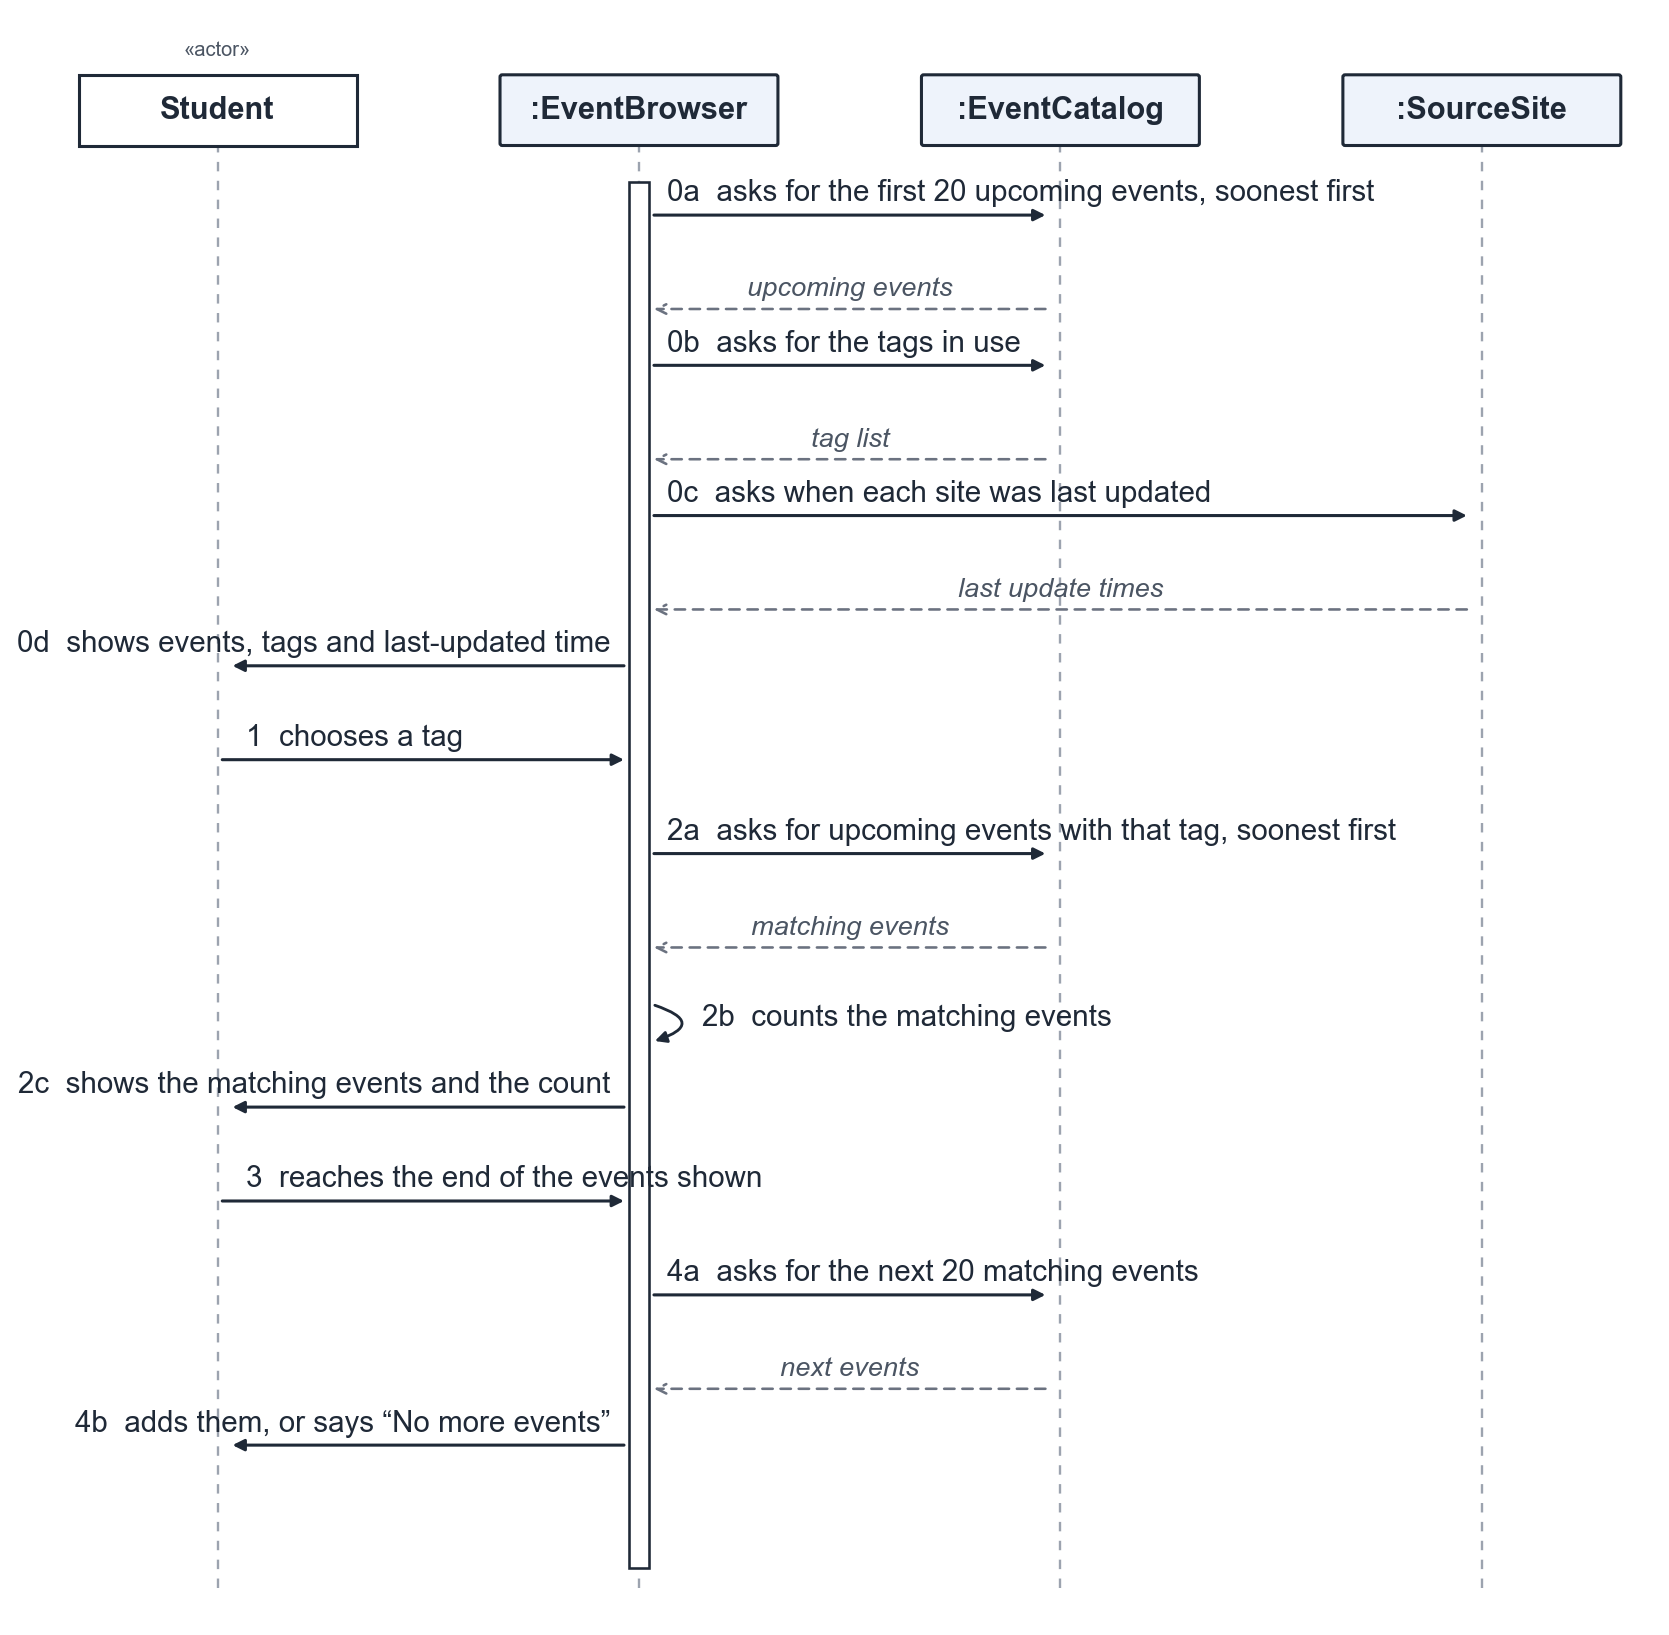
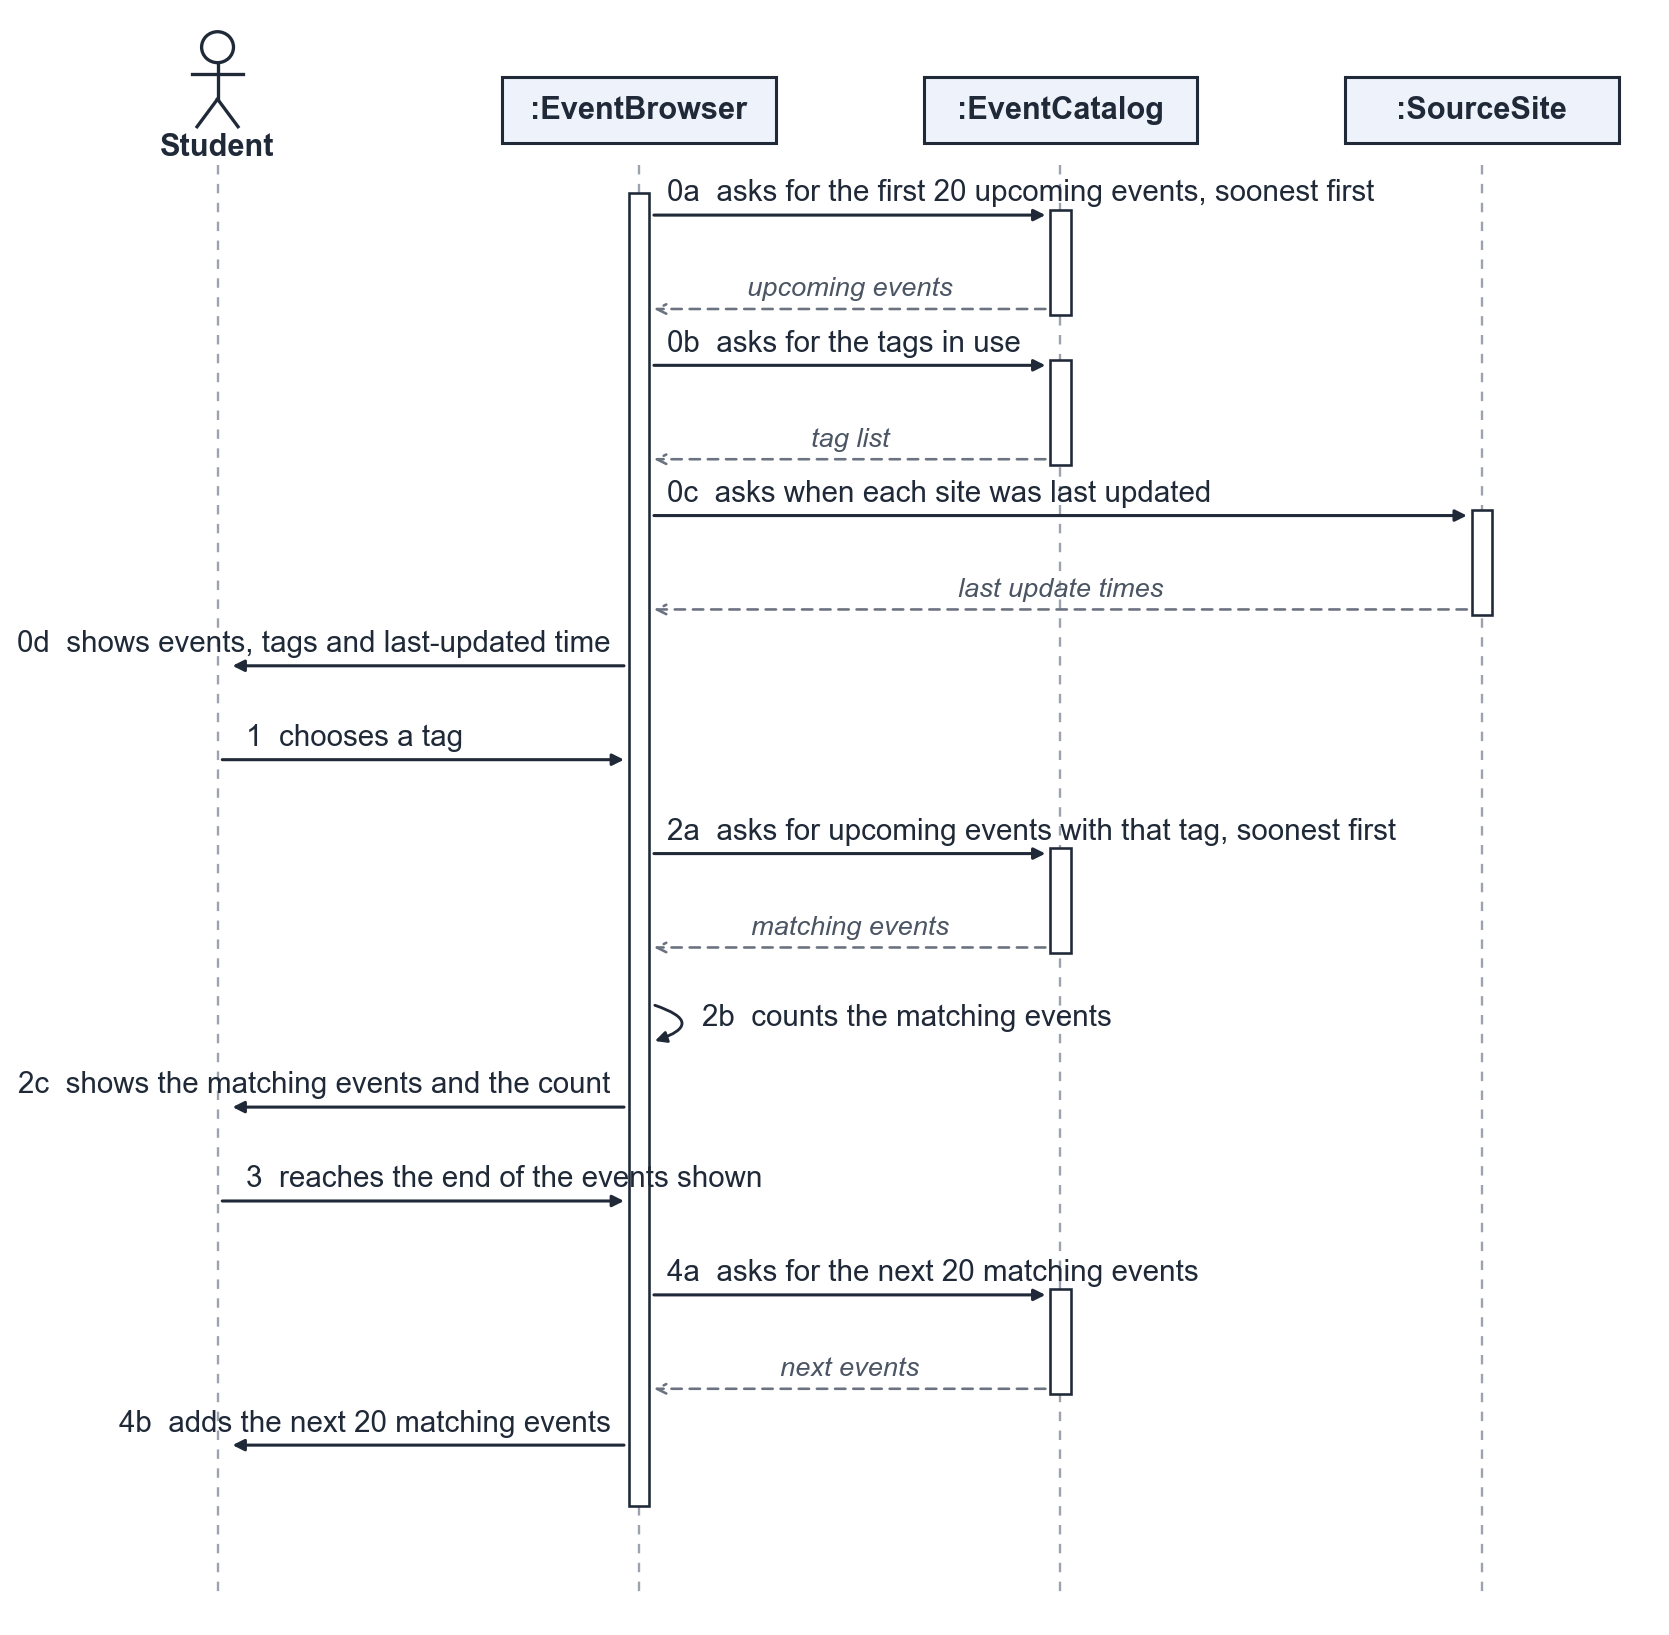
docs(p2): sequence diagrams follow lecture notation
Stick-figure actors, activation bars on called objects, controller bar
broken between the two visits in UC-02, and message 4b of UC-01 keeps
to the main path (no branch inside a message).

Refs #1

diff --git a/docs/p2/diagrams/draw_diagrams.py b/docs/p2/diagrams/draw_diagrams.py
@@ -80,61 +80,82 @@ def domain_model(path):
 
 
 # ---------------------------------------------------------------- 5.2 sequence diagrams
-def sequence(path, lifelines, rows, control, title_note=None):
-    """rows: (number, sender, receiver, message, return_label or None)."""
+def sequence(path, lifelines, rows, control, breaks_after=()):
+    """rows: (number, sender, receiver, message, return_label or None).
+    Actors are stick figures; the controller has an activation bar that ends after any row in
+    breaks_after and restarts at the next message; every other object gets a short bar from the
+    message it receives until it returns."""
     n = len(lifelines)
     gap = 3.7
     xs = {name: i * gap for i, name in enumerate(lifelines)}
+    actors = {"Student", "Friend"}
     step = 0.85
     total = len(rows) * step + sum(step * 0.6 for r in rows if r[4]) + 1.2
-    fig_h = 1.6 + total * 0.62
-    fig, ax = plt.subplots(figsize=(max(10, n * 2.6), fig_h))
+    fig, ax = plt.subplots(figsize=(max(10, n * 2.6), 1.6 + total * 0.62))
     top_y = 0
     for name, x in xs.items():
-        actor = name in ("Student", "Friend")
-        label = name if not actor else name
-        ax.add_patch(FancyBboxPatch((x - 1.2, top_y - 0.25), 2.4, 0.6,
-                                    boxstyle="round,pad=0.02" if not actor else "square,pad=0.02",
-                                    fc="white" if actor else FILL, ec=INK, lw=1.3))
-        ax.text(x, top_y + 0.05, (":" if not actor else "") + label if not actor else label,
-                ha="center", va="center", fontsize=13, fontweight="bold", color=INK)
-        if actor:
-            ax.text(x, top_y + 0.55, "«actor»", ha="center", fontsize=8.5, color="#4b5563")
-    y = top_y - 0.9
+        if name in actors:
+            ax.add_patch(plt.Circle((x, top_y + 0.62), 0.14, fc="white", ec=INK, lw=1.4))
+            ax.plot([x, x], [top_y + 0.48, top_y + 0.15], color=INK, lw=1.4)
+            ax.plot([x - 0.22, x + 0.22], [top_y + 0.38, top_y + 0.38], color=INK, lw=1.4)
+            ax.plot([x, x - 0.18], [top_y + 0.15, top_y - 0.1], color=INK, lw=1.4)
+            ax.plot([x, x + 0.18], [top_y + 0.15, top_y - 0.1], color=INK, lw=1.4)
+            ax.text(x, top_y - 0.28, name, ha="center", va="center", fontsize=13, fontweight="bold", color=INK)
+        else:
+            ax.add_patch(plt.Rectangle((x - 1.2, top_y - 0.25), 2.4, 0.6, fc=FILL, ec=INK, lw=1.3))
+            ax.text(x, top_y + 0.05, ":" + name, ha="center", va="center", fontsize=13, fontweight="bold", color=INK)
     end_y = -(total) - 0.3
     for x in xs.values():
-        ax.plot([x, x], [top_y - 0.25, end_y], color="#9ca3af", lw=1, ls=(0, (4, 4)), zorder=0)
-    # activation bar on the controller for the whole interaction
+        ax.plot([x, x], [top_y - 0.45, end_y], color="#9ca3af", lw=1, ls=(0, (4, 4)), zorder=0)
+
+    def bar(x, y0, y1):
+        ax.add_patch(plt.Rectangle((x - 0.09, y1), 0.18, y0 - y1, fc="white", ec=INK, lw=1.1, zorder=2))
+
     cx = xs[control]
-    ax.add_patch(plt.Rectangle((cx - 0.09, end_y + 0.25), 0.18, (top_y - 0.6) - (end_y + 0.25),
-                               fc="white", ec=INK, lw=1.1, zorder=2))
+    y = top_y - 0.9
+    seg_start = y + 0.2
+    open_at = {}
     for num, a, b, msg, ret in rows:
+        if seg_start is None:
+            seg_start = y + 0.2
         xa, xb = xs[a], xs[b]
         if a == b:
+            if a != control and a not in open_at:
+                open_at[a] = y + 0.15
             ax.annotate("", xy=(xa + 0.1, y - 0.35), xytext=(xa + 0.1, y),
                         arrowprops=dict(arrowstyle="-|>", color=INK, lw=1.2,
                                         connectionstyle="arc3,rad=-1.6"), zorder=3)
             ax.text(xa + 0.55, y - 0.12, f"{num}  {msg}", fontsize=12.5, va="center", color=INK)
             y -= step * 1.1
             if ret and a != control:
-                ax.annotate("", xy=(cx + 0.09, y), xytext=(xa, y),
+                ax.annotate("", xy=(cx + 0.09, y), xytext=(xa - 0.09, y),
                             arrowprops=dict(arrowstyle="->", color="#6b7280", lw=1.1, ls=(0, (4, 3))), zorder=3)
                 ax.text((xa + cx) / 2, y + 0.12, ret, ha="center", fontsize=11.5, color="#4b5563", style="italic")
+                bar(xa, open_at.pop(a), y - 0.05)
                 y -= step * 0.6
-            continue
-        s = 0.09 if xb > xa else -0.09
-        ax.annotate("", xy=(xb - s, y), xytext=(xa + (s if a == control else 0), y),
-                    arrowprops=dict(arrowstyle="-|>", color=INK, lw=1.3), zorder=3)
-        if xb > xa:
-            ax.text(xa + 0.25, y + 0.13, f"{num}  {msg}", ha="left", fontsize=12.5, color=INK)
         else:
-            ax.text(xa - 0.25, y + 0.13, f"{num}  {msg}", ha="right", fontsize=12.5, color=INK)
-        y -= step
-        if ret:
-            ax.annotate("", xy=(xa + (s if a == control else 0), y), xytext=(xb - s, y),
-                        arrowprops=dict(arrowstyle="->", color="#6b7280", lw=1.1, ls=(0, (4, 3))), zorder=3)
-            ax.text((xa + xb) / 2, y + 0.12, ret, ha="center", fontsize=11.5, color="#4b5563", style="italic")
-            y -= step * 0.6
+            if a == control and b not in actors:
+                open_at.setdefault(b, y + 0.05)
+            s = 0.09 if xb > xa else -0.09
+            ax.annotate("", xy=(xb - s, y), xytext=(xa + s if a == control else xa, y),
+                        arrowprops=dict(arrowstyle="-|>", color=INK, lw=1.3), zorder=3)
+            if xb > xa:
+                ax.text(xa + 0.25, y + 0.13, f"{num}  {msg}", ha="left", fontsize=12.5, color=INK)
+            else:
+                ax.text(xa - 0.25, y + 0.13, f"{num}  {msg}", ha="right", fontsize=12.5, color=INK)
+            y -= step
+            if ret:
+                ax.annotate("", xy=(xa + s, y), xytext=(xb - s, y),
+                            arrowprops=dict(arrowstyle="->", color="#6b7280", lw=1.1, ls=(0, (4, 3))), zorder=3)
+                ax.text((xa + xb) / 2, y + 0.12, ret, ha="center", fontsize=11.5, color="#4b5563", style="italic")
+                if b in open_at:
+                    bar(xb, open_at.pop(b), y - 0.05)
+                y -= step * 0.6
+        if num in breaks_after:
+            bar(cx, seg_start, y + 0.45)
+            seg_start = None
+    if seg_start is not None:
+        bar(cx, seg_start, y + 0.3)
     ax.set_xlim(-1.5, (n - 1) * gap + 1.5)
     ax.set_ylim(end_y - 0.2, top_y + 0.9)
     ax.axis("off")
@@ -154,7 +175,7 @@ UC01 = [
     ("2c", "EventBrowser", "Student", "shows the matching events and the count", None),
     ("3", "Student", "EventBrowser", "reaches the end of the events shown", None),
     ("4a", "EventBrowser", "EventCatalog", "asks for the next 20 matching events", "next events"),
-    ("4b", "EventBrowser", "Student", "adds them, or says “No more events”", None),
+    ("4b", "EventBrowser", "Student", "adds the next 20 matching events", None),
 ]
 
 UC02 = [
@@ -176,7 +197,8 @@ if __name__ == "__main__":
     sequence(os.path.join(here, "sd_uc01.png"),
              ["Student", "EventBrowser", "EventCatalog", "SourceSite"], UC01, "EventBrowser")
     sequence(os.path.join(here, "sd_uc02.png"),
-             ["Student", "Friend", "EventBrowser", "LinkRegistry", "EventCatalog"], UC02, "EventBrowser")
+             ["Student", "Friend", "EventBrowser", "LinkRegistry", "EventCatalog"], UC02, "EventBrowser",
+             breaks_after=("2c",))
     print("ok")
 
 

diff --git a/docs/p2/sections/ahmed_3-4_4_5-1_5-2.md b/docs/p2/sections/ahmed_3-4_4_5-1_5-2.md
@@ -209,7 +209,7 @@ domain class from 5.1.
 | 2c | EventBrowser | shows the matching events and how many match | the matching events, the count | Student |
 | 3 | Student | reaches the end of the events shown | how many events are shown | EventBrowser |
 | 4a | EventBrowser | asks for the next 20 matching events | the tag name, how many are already shown | EventCatalog |
-| 4b | EventBrowser | adds the next events, or says "No more events" | the next events | Student |
+| 4b | EventBrowser | adds the next 20 matching events | the next events | Student |
 
 **(c) Analysis sequence diagram.**
 
